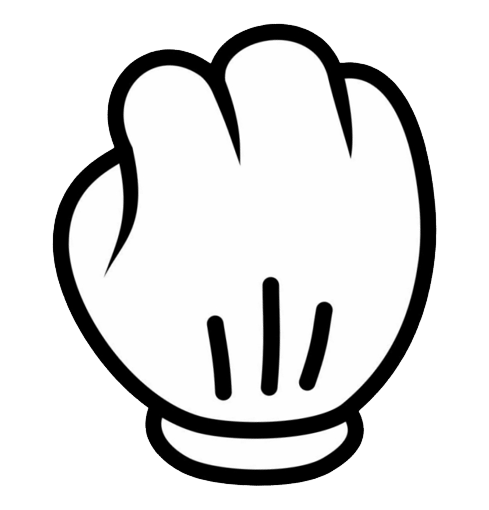
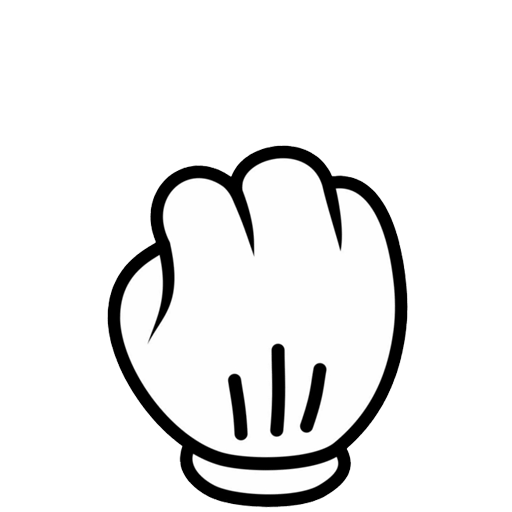
new rps images and styles on create game

Changed region(s): [[0.092, 0.0294, 0.9202, 1.0]]

diff --git a/web/src/app/create/page.tsx b/web/src/app/create/page.tsx
@@ -1,5 +1,3 @@
-import ChainTitle from '@/components/base/ChainTitle';
-import CreateForm from '@/components/create/CreateFormOld';
 import TwoPaneCreate from '@/components/create/TwoPaneCreate';
 
 export default function Create() {
@@ -7,43 +5,8 @@ export default function Create() {
   return (
 
     <main className=' font-signika'>
-<TwoPaneCreate/>
-  </main>
+      <TwoPaneCreate />
+    </main>
 
-    
-    // <main className='items-center py-12 md:py-24 font-anon'>
-    //   <section className='min-w-full pt-36'>
-    //     <ChainTitle title='Create' />
-    //   </section>
-
-    //   <section id='intro' className='items-center p-12 md:p-24'>
-    //     <div className='flex'>
-    //       <div className='justify-right md:w-1/2'></div>
-    //       <div className='justify-right md:w-1/2 '>
-    //         <p>
-    //           Launch an onchain game for your community without writing a line of code.
-    //           <br />
-    //           <br />
-    //           Gameplay is created by choosing the components you want.  Components are in the registry.
-    //           <br />
-    //           <br />
-    //           After your game is created you can visit the Game Page and manage your component,
-    //           set customization options, and create your Flows.
-    //           <br />
-    //           <br />
-    //           Flows are how players will interact with your game.
-    //           When you create a flow you choose the game functions on your selected components to chain together,
-    //           and the flow will execute them in order.
-    //           Note every component game function has inputs and outputs, allowing data to be passed around.
-
-    //         </p>
-    //       </div>
-
-    //     </div>
-    //   </section>
-    //   <section>
-    //     <CreateForm />
-    //   </section>
-    // </main>
   );
 }

diff --git a/web/src/components/create/ChooseModule.tsx b/web/src/components/create/ChooseModule.tsx
@@ -16,18 +16,18 @@ type ModuleCardProps = {
 export default function ChooseModule(props: ModuleCardProps) {
   const { data } = useMetadata<ComponentMetadata>(props.metadata);
 
-  const cardClass = props.selected.includes(props.address) ? ' border-2 border-blue-300' : ' border-2 border-gray-500';
-  const textClass = props.selected.includes(props.address) ? ' text-white' : ' text-gray-500';
+  const cardClass = props.selected.includes(props.address) ? ' border-selected' : ' border-unselected';
+  const textClass = props.selected.includes(props.address) ? ' text-selected' : ' text-unselected';
 
   return (
     <div
-      className={'border-2 ' + cardClass + textClass}
+      className={'border-2 rounded-md ' + cardClass + textClass}
       onClick={() => props.setSelected(props.address)}
     >
-      <div className='py-2 pl-4 text-2xl border-b-2 border-white active:border-blue-500'>
-        {props.index + 1}{"/"}{data ? censor(data.name) : "loading"}
+      <div className='py-2 pl-4 text-2xl border-white active:border-blue-500'>
+        {data ? censor(data.name) : "loading"}
       </div>
-      <div className='pt-5 pb-2 pl-2 text-sm'>
+      <div className='pt-2 pb-2 pl-2 text-sm m-2'>
         {censor(data?.description)}
       </div>
     </div>

diff --git a/web/src/components/create/TwoPaneCreate.tsx b/web/src/components/create/TwoPaneCreate.tsx
@@ -2,14 +2,11 @@
 
 import { useWriteGameFactoryCreateGame, useReadComponentRegistryGetComponents, useWriteGameFactoryCreateGameWithComponents } from '@/generated';
 import useDeployment from '@/hooks/useDeployment';
-import SmallTitle from '../base/SmallTitle';
 import { useAccount, useWaitForTransactionReceipt } from 'wagmi';
-import ChooseModule from './ChooseModule';
 import { useEffect, useState } from 'react';
 import { Address, getAddress } from 'viem';
 import { WriteIPFS } from '@/mutations/WriteIPFS';
 import { toast } from 'react-toastify';
-import CreateForm from './CreateFormOld';
 import CreateGameForm from './CreateGameForm';
 import CreateGameModules from './CreateGameModules';
 

diff --git a/web/src/components/create/CreateGameForm.tsx b/web/src/components/create/CreateGameForm.tsx
@@ -2,14 +2,11 @@
 
 import { useWriteGameFactoryCreateGame, useReadComponentRegistryGetComponents, useWriteGameFactoryCreateGameWithComponents } from '@/generated';
 import useDeployment from '@/hooks/useDeployment';
-import SmallTitle from '../base/SmallTitle';
 import { useAccount, useWaitForTransactionReceipt } from 'wagmi';
-import ChooseModule from './ChooseModule';
 import { useEffect, useState } from 'react';
 import { Address, getAddress } from 'viem';
 import { WriteIPFS } from '@/mutations/WriteIPFS';
 import { toast } from 'react-toastify';
-import { pretty } from '@/domain/utils';
 import { ConnectButton } from '@rainbow-me/rainbowkit';
 
 export default function CreateGameForm() {

diff --git a/web/src/components/create/CreateGameModules.tsx b/web/src/components/create/CreateGameModules.tsx
@@ -76,8 +76,11 @@ export default function CreateGameModules() {
 
 
     return (
-        <section id='hero' className='relative items-center pt-12 text-center'>
-            <div className='grid grid-cols-1 gap-8 mx-12 md:grid-cols-2'>
+        <section id='hero' className='relative'>
+            <div className='p-4 text-2xl'>
+                Game Components
+            </div>
+            <div className='grid grid-cols-1 gap-8 mx-12 md:grid-cols-2 pt-8'>
                 {Array.from({ length: currentModules?.length as number }).map((object, i) => {
                     if (currentModules![i].component !== '0x0000000000000000000000000000000000000000') {
 
